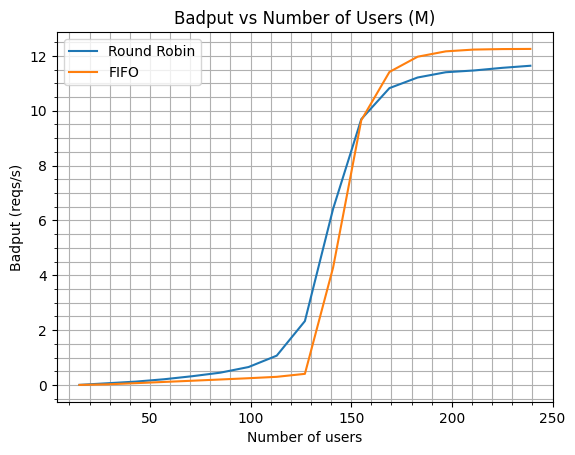
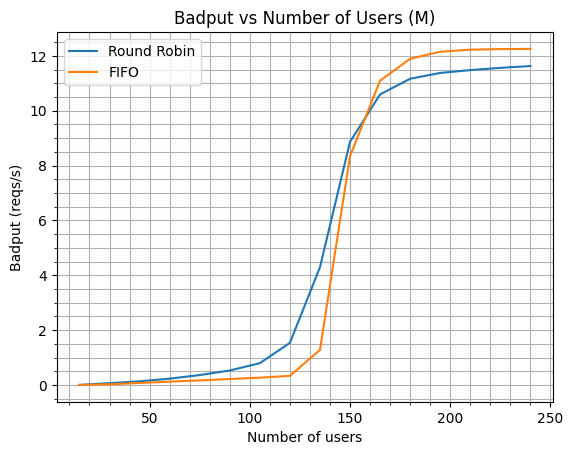
Updated graphs

diff --git a/data_generator.py b/data_generator.py
@@ -3,7 +3,7 @@ from multiprocessing import Process
 import csv
 
 # NUM_USERS = [ 1, 2, 3, 4, 5, 10 ] + list(range(15, 301, 15)) + list(range(350, 600, 50))
-NUM_USERS = list(range(15, 241, 14))
+NUM_USERS = list(range(15, 241, 15))
 CLOCKS_PER_SEC = 1000000
 MAX_THREADS = 200
 NUM_CPUS = 1
